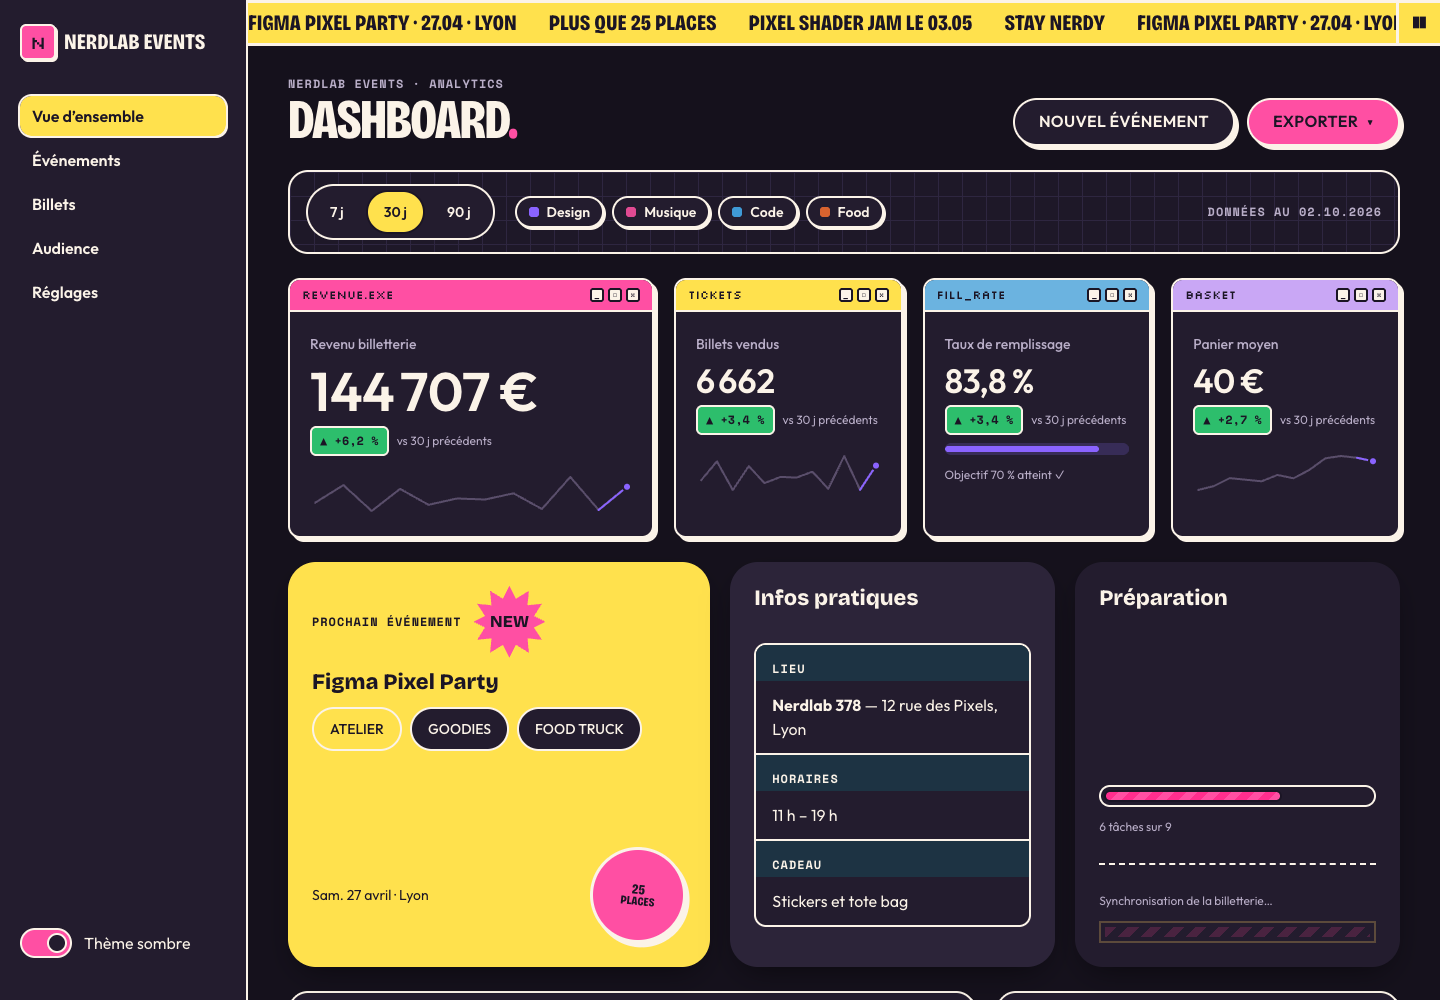
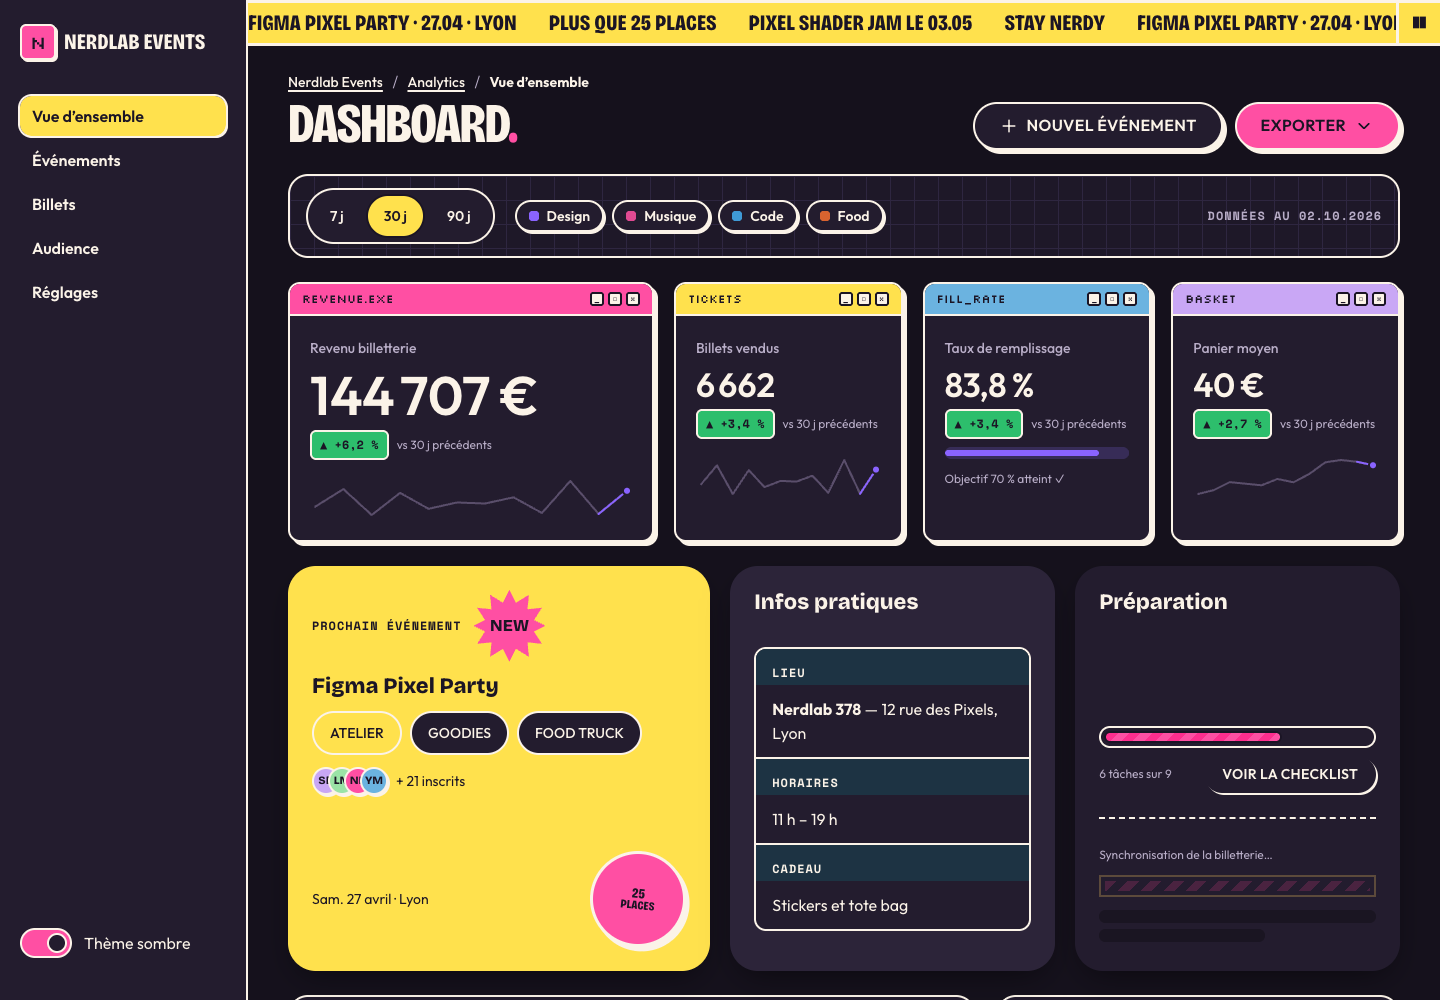
feat(dashboard): use the new components where the page needs them
Breadcrumb in the header, avatars in the customer column and on the next-event
tile, selectable orders with a « Sélection (N) en CSV » export, date and venue
in the new-event form, the preparation checklist in a drawer, skeletons while
ticketing syncs, icons in the buttons. The e2e walks them (63 checks).

diff --git a/apps/dashboard/src/App.tsx b/apps/dashboard/src/App.tsx
@@ -1,8 +1,9 @@
 import {
-  Badge, Bubble, Button, Callout, Cluster, DataTable, Delta, Menu, MenuItem, MenuTrigger, Meter, MobileNav, Pagination, Ribbon, Search, SegmentedControl, Split, Stack, StatTile, Switch, Toast, ToggleChip,
+  Avatar, Badge, Breadcrumb, Bubble, Button, Callout, Cluster, DataTable, Delta, Menu, MenuItem, MenuTrigger, Meter, MobileNav, Pagination, Ribbon, Search, SegmentedControl, Split, Stack, StatTile, Switch, Toast, ToggleChip,
   type DataTableColumn, type DataTableSort,
 } from '@robin-dot-lab/react';
-import { useCallback, useDeferredValue, useEffect, useMemo, useState } from 'react';
+import { ChevronDown } from '@robin-dot-lab/icons';
+import { useCallback, useDeferredValue, useEffect, useMemo, useState, type Key } from 'react';
 import { BarList, ChartCard, Heatmap, Legend, LineChart, ShareBar, Sparkline } from '@robin-dot-lab/charts';
 import {
   activeCats, bucket, catById, catColor, CATS, daily, DAYS, DOW, heatGrid, lineData, ORDERS, SLOTS, slice, STATUS, topEvents, totals,
@@ -14,10 +15,11 @@ import { useTheme } from './hooks';
 
 const NAV = ['Vue d’ensemble', 'Événements', 'Billets', 'Audience', 'Réglages'];
 const PER_PAGE = 8;
+const AVATAR_TONES = ['lavender', 'mint', 'accent', 'secondary'] as const;
 
 const orderColumns: DataTableColumn<Order>[] = [
   { key: 'id', header: 'N°', cell: (o) => <OrderDetails order={o} /> },
-  { key: 'client', header: 'Client', sortable: true },
+  { key: 'client', header: 'Client', sortable: true, cell: (o) => <span className="client"><Avatar name={o.client} size="sm" tone={AVATAR_TONES[o.client.charCodeAt(0) % AVATAR_TONES.length]} />{o.client}</span> },
   { key: 'event', header: 'Événement', sortable: true },
   { key: 'cat', header: 'Catégorie', sortable: true, cell: (o) => <span className="cat"><i className="nl-key-rect" style={{ background: catColor(o.cat) }} aria-hidden="true" />{catById[o.cat].name}</span> },
   { key: 'qty', header: 'Billets', align: 'end', sortable: true },
@@ -34,6 +36,7 @@ export function App() {
   const [query, setQuery] = useState('');
   const [sort, setSort] = useState<DataTableSort>({ key: 'date', direction: 'descending' });
   const [page, setPage] = useState(1);
+  const [selected, setSelected] = useState<Set<Key>>(new Set());
   const [toast, setToast] = useState<string | null>(null);
   const clearToast = useCallback(() => setToast(null), []);
   useEffect(() => setPage(1), [filters, query]);
@@ -69,7 +72,10 @@ export function App() {
     const a = document.createElement('a'); a.href = URL.createObjectURL(new Blob([csv], { type: 'text/csv' })); a.download = file; a.click(); URL.revokeObjectURL(a.href);
     setToast(`${list.length} commandes exportées`);
   };
-  const onExport = (key: unknown) => key === 'all' ? exportCsv(ORDERS, 'nerdlab-orders-tout.csv') : exportCsv(orders, `nerdlab-orders-${shown.range}j.csv`);
+  const onExport = (key: unknown) =>
+    key === 'all' ? exportCsv(ORDERS, 'nerdlab-orders-tout.csv')
+    : key === 'selection' ? exportCsv(ORDERS.filter((o) => selected.has(o.id)), 'nerdlab-orders-selection.csv')
+    : exportCsv(orders, `nerdlab-orders-${shown.range}j.csv`);
   const themeSwitch = <Switch checked={theme === 'dark'} onChange={(e) => setTheme(e.currentTarget.checked ? 'dark' : 'light')}>Thème sombre</Switch>;
 
   return (
@@ -87,12 +93,13 @@ export function App() {
         <main className="main" id="top">
           <Ribbon className="announce" items={['Figma Pixel Party · 27.04 · Lyon', 'Plus que 25 places', 'Pixel Shader Jam le 03.05', 'Stay nerdy']} aria-label="Annonces" role="region" />
           <header className="top">
-            <div><span className="nl-eyebrow nl-muted">Nerdlab Events · Analytics</span><h1 className="nl-display">Dashboard<span className="dot">.</span></h1></div>
+            <div><Breadcrumb items={[{ label: 'Nerdlab Events', href: '#top' }, { label: 'Analytics', href: '#top' }, { label: 'Vue d’ensemble' }]} /><h1 className="nl-display">Dashboard<span className="dot">.</span></h1></div>
             <Cluster gap={3}><span className="top__theme">{themeSwitch}</span><NewEventDialog onCreate={(t) => setToast(`Brouillon « ${t} » créé`)} /><MenuTrigger>
-              <Button variant="primary">Exporter <span aria-hidden="true">▾</span></Button>
+              <Button variant="primary">Exporter <ChevronDown /></Button>
               <Menu onAction={onExport} placement="bottom end">
                 <MenuItem id="filtered">Commandes filtrées (CSV)</MenuItem>
                 <MenuItem id="all">Toutes les commandes (CSV)</MenuItem>
+                <MenuItem id="selection" isDisabled={selected.size === 0}>{`Sélection (${selected.size}) en CSV`}</MenuItem>
               </Menu>
             </MenuTrigger></Cluster>
           </header>
@@ -168,11 +175,12 @@ export function App() {
 
             <section className="orders nl-card" aria-labelledby="orders-title">
               <Split ratio="2-1" gap={4} className="orders__head">
-                <div><h2 id="orders-title">Dernières commandes</h2><p>{int.format(orders.length)} commandes · {eur.format(sum(orders.map((o) => o.amount)))}</p></div>
+                <div><h2 id="orders-title">Dernières commandes</h2><p>{int.format(orders.length)} commandes · {eur.format(sum(orders.map((o) => o.amount)))}{selected.size > 0 && ` · ${selected.size} sélectionnée${selected.size > 1 ? 's' : ''}`}</p></div>
                 <Search label="Rechercher une commande" value={query} onChange={(e) => setQuery(e.target.value)} placeholder="Client, event, n°" />
               </Split>
               <DataTable caption="Dernières commandes" hideCaption columns={orderColumns} rows={pageRows} rowKey={(o) => o.id}
-                sort={sort} onSortChange={setSort} empty={<><Bubble>Rien ici…</Bubble> Aucune commande ne correspond.</>} />
+                sort={sort} onSortChange={setSort} selectable selectedKeys={selected} onSelectionChange={setSelected}
+                selectionLabels={{ all: 'Sélectionner les commandes affichées', row: (o) => `Sélectionner la commande ${o.id}`, column: 'Sélection' }} empty={<><Bubble>Rien ici…</Bubble> Aucune commande ne correspond.</>} />
               <Stack className="orders__foot">
                 <Cluster justify="between" gap={3}>
                   <span className="nl-muted">{orders.length ? `${(page - 1) * PER_PAGE + 1}–${Math.min(page * PER_PAGE, orders.length)} sur ${orders.length}` : ''}</span>

diff --git a/apps/dashboard/src/extras.tsx b/apps/dashboard/src/extras.tsx
@@ -1,7 +1,9 @@
 // Dashboard pieces built from the step-9 components: order details, new-event form, next-event tiles, goals help.
+import { Plus } from '@robin-dot-lab/icons';
 import {
-  Badge, Bento, Burst, Button, Callout, Cluster, Dialog, DialogActions, DialogTrigger, Divider, Field, InfoList, Input,
-  Pill, Popover, Progress, Radio, RadioGroup, Select, Sticker, StickerSmall, Textarea,
+  Avatar, AvatarGroup, Badge, Bento, Burst, Button, Callout, Checkbox, Cluster, ComboBox, ComboBoxItem, DatePicker, Dialog, DialogActions,
+  DialogTrigger, Divider, Drawer, DrawerFooter, Field, InfoList, Input, parseDate, Pill, Popover, Progress, Radio, RadioGroup, Select,
+  Skeleton, Stack, Sticker, StickerSmall, Textarea,
 } from '@robin-dot-lab/react';
 import type { FormEvent } from 'react';
 import { catById, CATS, STATUS, type Order } from './data';
@@ -33,11 +35,19 @@ export function OrderDetails({ order }: { order: Order }) {
   );
 }
 
+const VENUES = ['Nerdlab 378', 'La Halle aux Pixels', 'Le Sucre', 'Le Périscope', 'Halle Tony Garnier'];
+const ATTENDEES = ['Sacha D.', 'Léa M.', 'Noah K.', 'Yuki M.'];
+const TASKS = [
+  { label: 'Réserver la salle', done: true }, { label: 'Annoncer l’événement', done: true }, { label: 'Ouvrir la billetterie', done: true },
+  { label: 'Commander les stickers', done: true }, { label: 'Confirmer les intervenants', done: true }, { label: 'Préparer les tote bags', done: true },
+  { label: 'Tester le vidéoprojecteur', done: false }, { label: 'Briefer les bénévoles', done: false }, { label: 'Imprimer les badges', done: false },
+];
+
 /** Header button: a draft event form in a modal window. */
 export function NewEventDialog({ onCreate }: { onCreate: (title: string) => void }) {
   return (
     <DialogTrigger>
-      <Button>Nouvel événement</Button>
+      <Button><Plus /> Nouvel événement</Button>
       <Dialog title="NEW_EVENT.EXE" size="lg">
         {({ close }) => {
           const submit = (e: FormEvent<HTMLFormElement>) => {
@@ -49,6 +59,12 @@ export function NewEventDialog({ onCreate }: { onCreate: (title: string) => void
             <form className="nl-stack" onSubmit={submit}>
               <Callout title="Brouillon">L’événement reste invisible du public tant qu’il n’est pas publié.</Callout>
               <Field label="Titre"><Input name="title" required placeholder="Pixel Party" /></Field>
+              <div className="form-row">
+                <DatePicker label="Date" name="date" defaultValue={parseDate('2026-05-16')} isRequired />
+                <ComboBox label="Lieu" name="venue" placeholder="Tape pour chercher…" allowsCustomValue>
+                  {VENUES.map((v) => <ComboBoxItem key={v} id={v}>{v}</ComboBoxItem>)}
+                </ComboBox>
+              </div>
               <Field label="Catégorie">
                 <Select name="cat" defaultValue="design">{CATS.map((c) => <option key={c.id} value={c.id}>{c.name}</option>)}</Select>
               </Field>
@@ -79,6 +95,12 @@ export function NextEvent() {
             <Cluster gap={3}><span className="nl-eyebrow">Prochain événement</span><Burst tone="primary">NEW</Burst></Cluster>
             <Bento.Title>Figma Pixel Party</Bento.Title>
             <Cluster gap={2}><Pill filled>Atelier</Pill><Pill>Goodies</Pill><Pill>Food truck</Pill></Cluster>
+            <Cluster gap={2}>
+              <AvatarGroup aria-label={`Derniers inscrits : ${ATTENDEES.join(', ')}`}>
+                {ATTENDEES.map((n, i) => <Avatar key={n} name={n} size="sm" tone={(['lavender', 'mint', 'primary', 'secondary'] as const)[i]} />)}
+              </AvatarGroup>
+              <span className="next__attendees">+ 21 inscrits</span>
+            </Cluster>
           </div>
           <Bento.Foot><span>Sam. 27 avril · Lyon</span><Sticker tone="primary" tilt="right">25<StickerSmall>places</StickerSmall></Sticker></Bento.Foot>
         </article>
@@ -98,10 +120,26 @@ export function NextEvent() {
           <Bento.Title>Préparation</Bento.Title>
           <div className="nl-stack nl-gap-2">
             <Progress value={done} max={tasks} label="Préparation de la Pixel Party" />
-            <span className="nl-help">{done} tâches sur {tasks}</span>
+            <Cluster justify="between" gap={2}>
+              <span className="nl-help">{done} tâches sur {tasks}</span>
+              <DialogTrigger>
+                <Button size="sm" variant="ghost">Voir la checklist</Button>
+                <Drawer title="Checklist · Pixel Party">
+                  {({ close }) => (
+                    <Stack gap={3}>
+                      {TASKS.map((t) => <Checkbox key={t.label} defaultChecked={t.done}>{t.label}</Checkbox>)}
+                      <DrawerFooter><Button variant="primary" onClick={close}>Fermer la checklist</Button></DrawerFooter>
+                    </Stack>
+                  )}
+                </Drawer>
+              </DialogTrigger>
+            </Cluster>
             <Divider />
             <span className="nl-help">Synchronisation de la billetterie…</span>
             <Progress label="Synchronisation de la billetterie" pixel />
+            <div aria-busy="true" aria-label="Dernières ventes (en cours de synchronisation)" role="region" className="sync">
+              <Skeleton lines={2} />
+            </div>
           </div>
         </article>
       </Bento>

diff --git a/apps/dashboard/src/app.css b/apps/dashboard/src/app.css
@@ -71,3 +71,11 @@
 
 /* Order number: a small ghost button that opens the order details */
 .order-id { font-family: var(--font-mono); font-size: var(--text-xs); }
+
+/* Customer cell: avatar + name */
+.client { display: inline-flex; align-items: center; gap: var(--space-2); }
+.top .nl-breadcrumb { margin-block-end: var(--space-1); }
+/* New-event form: date and venue side by side when there is room */
+.form-row { display: grid; gap: var(--space-4); }
+@container (min-width: 30rem) { .form-row { grid-template-columns: 1fr 1.4fr; } }
+.next__attendees { font-size: var(--text-sm); white-space: nowrap; }
